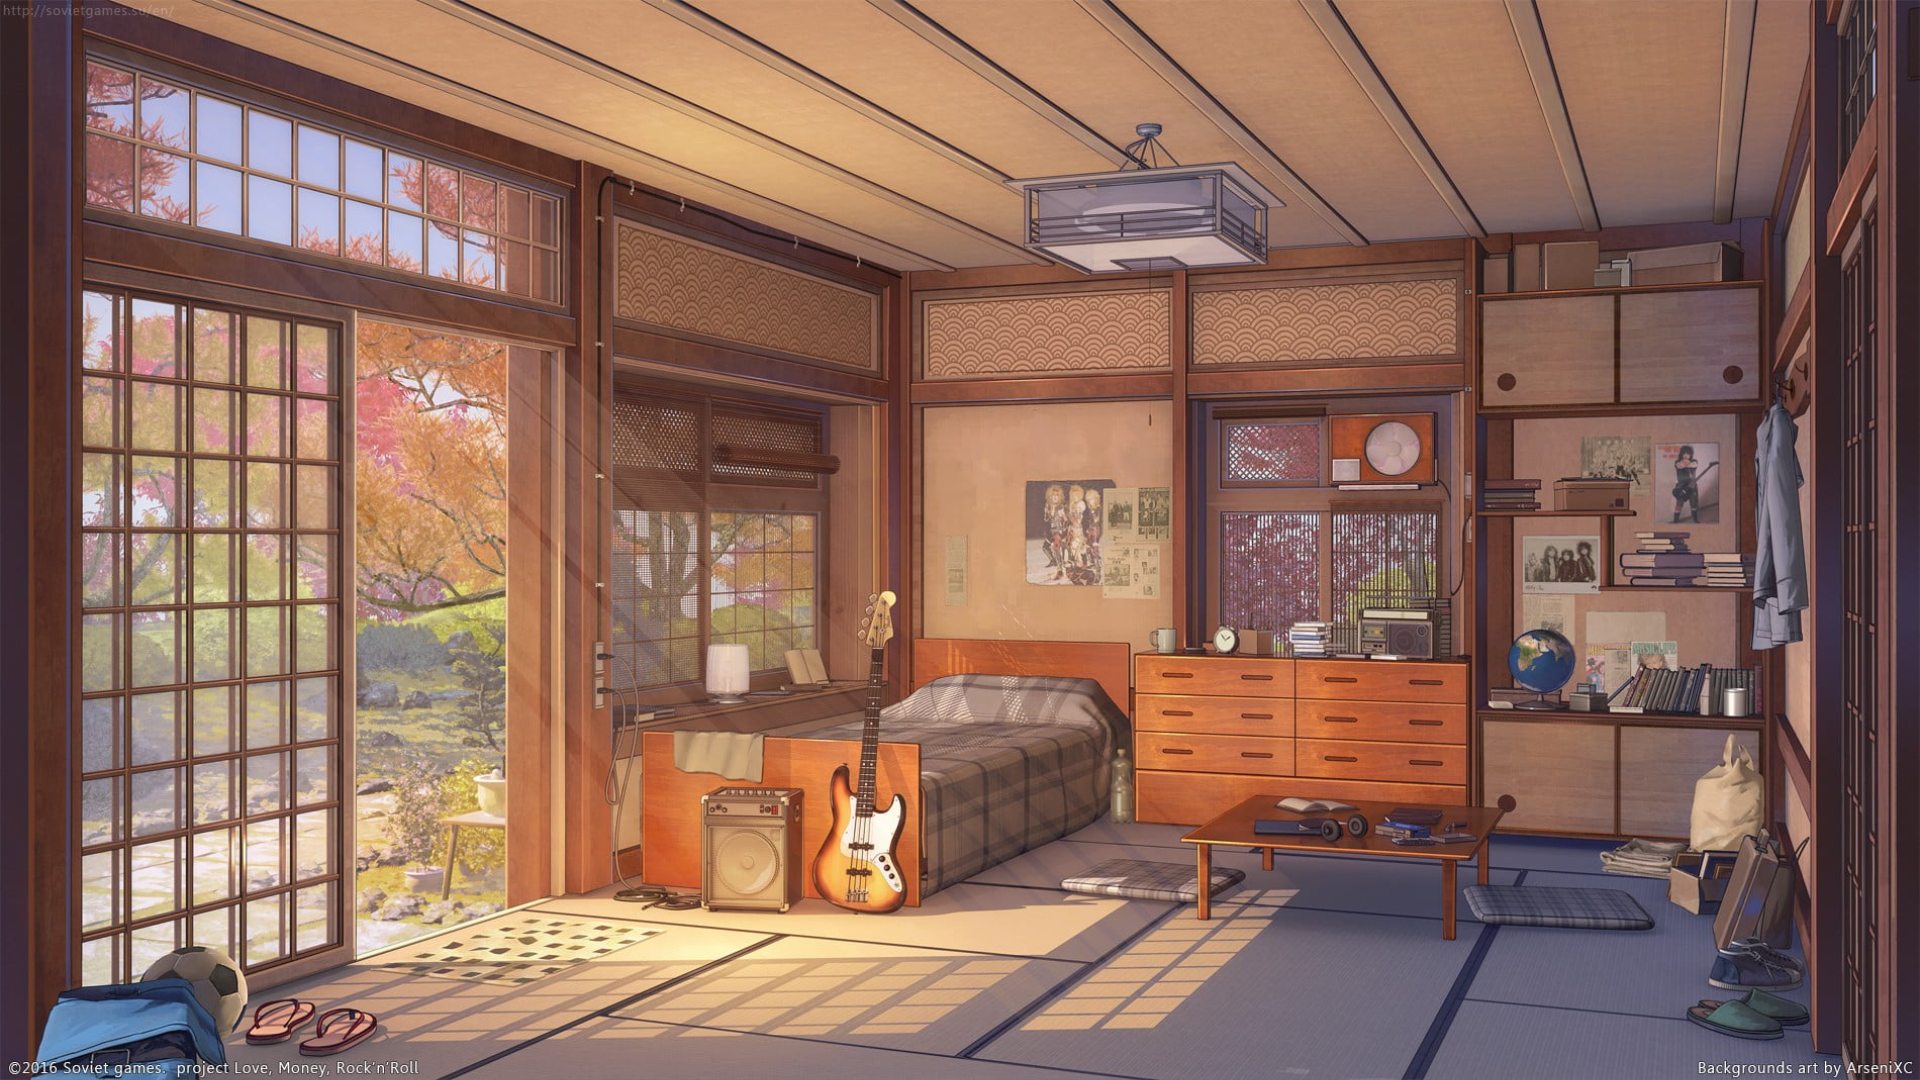
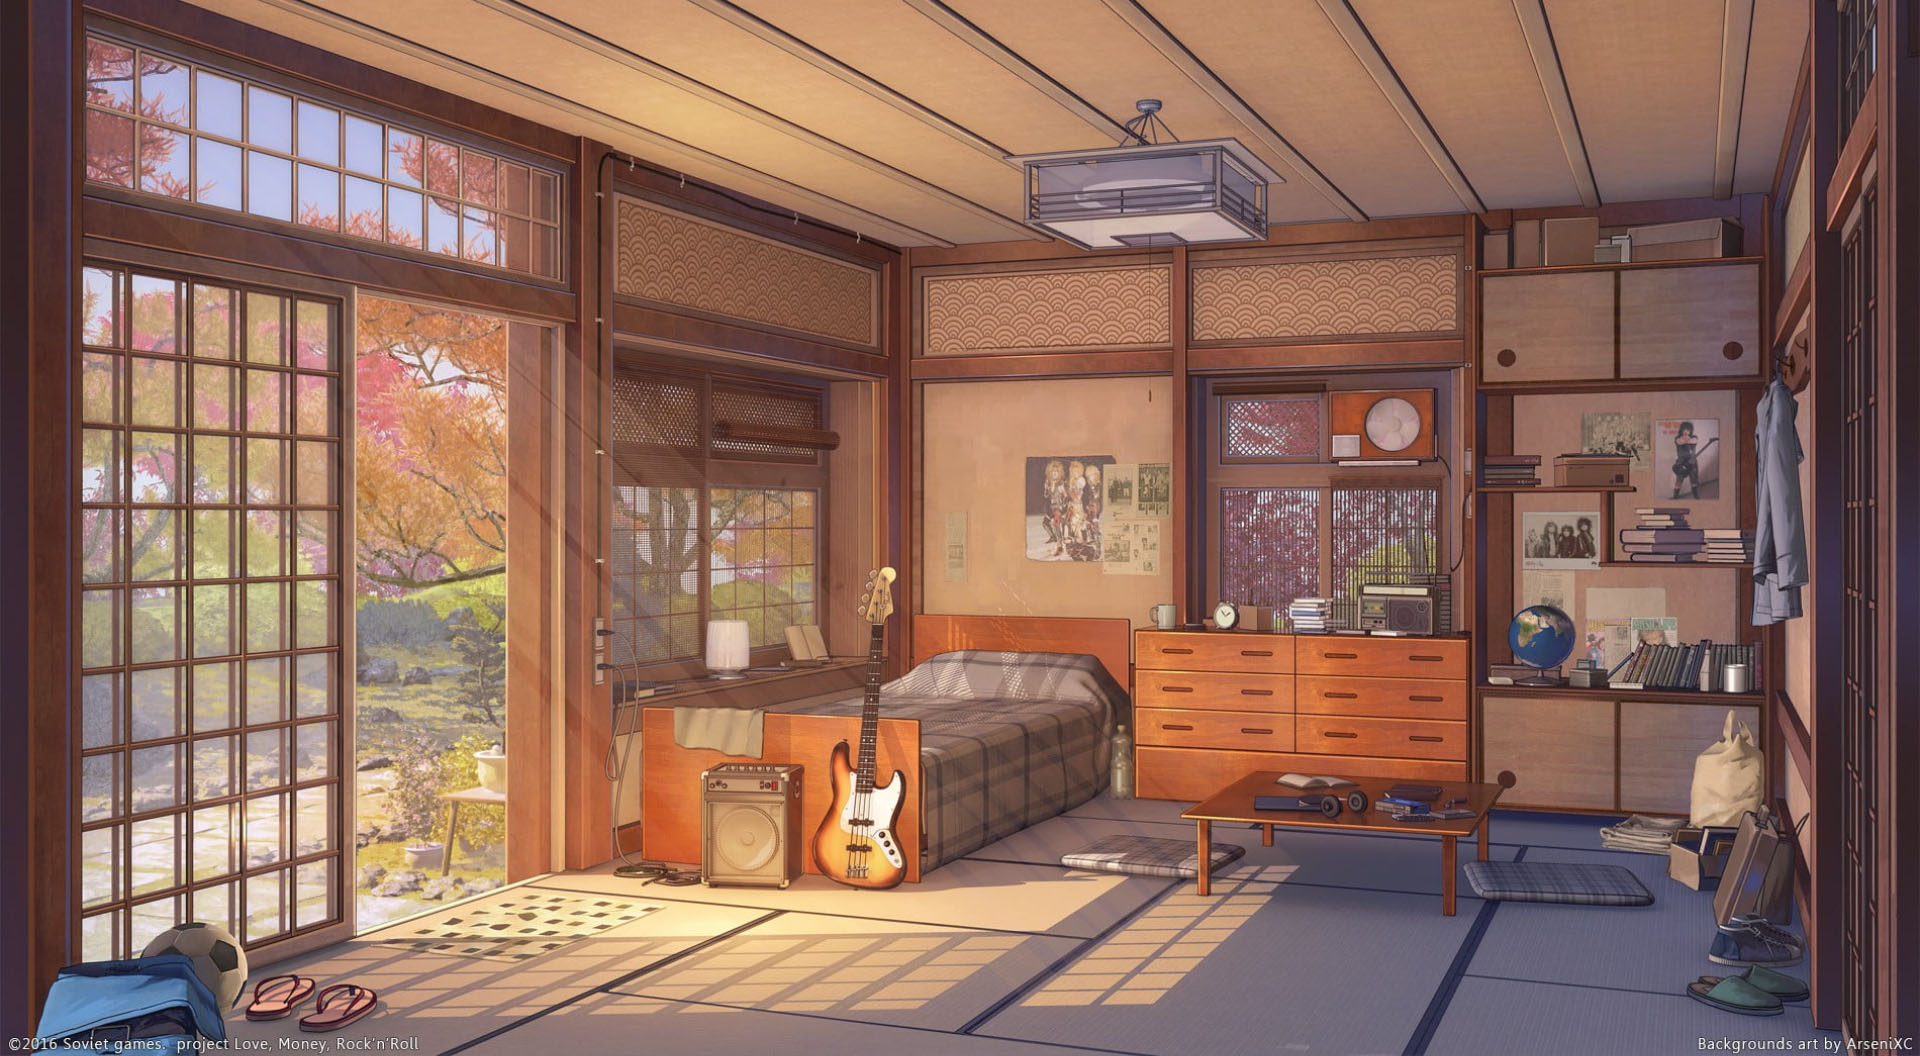
add bgm and profil image

Changed region(s): [[0.0312, 0.0, 1.0, 0.9688], [0.6875, 0.0, 0.75, 0.1562], [0.0312, 0.9688, 0.0625, 1.0]]

diff --git a/src/Histoire/Chapitre1/ACT0.jsx b/src/Histoire/Chapitre1/ACT0.jsx
@@ -2,8 +2,10 @@ import React, { useState, useEffect } from "react";
 
 import "../../css/Chapitre1css/ACT0.css";
 import Dialogue from "../../components/Dialogue";
+// Assets
 import Alarme from "../../Assets/Sons/alarm_clock.mp3";
 import Bgm_Chambre_Suzy from '../../Assets/Musiques/Golden_Eye.mp3';
+import Bg_Chambre_Suzy from '../../Assets/Fonds/bg_chambre_suzy.jpg'
 
 const ACT0 = () => {
   const dialogues = [
@@ -22,20 +24,24 @@ const ACT0 = () => {
   const [currentIndex, setCurrentIndex] = useState(0);
   const [isPlaying, setIsPlaying] = useState(false);
   const [isBgmPlaying, setIsBgmPlaying] = useState(false);
-
-  const bgmVolume = 0.1
+  const [isBg, setIsBg] = useState(false);
+  const [isProfil, setIsProfil] = useState(false);
 
   const handleClick = () => {
     if (currentIndex < dialogues.length - 1) {
       setCurrentIndex(currentIndex + 1);
       if (currentIndex === 5) {
         setIsPlaying(false); // Arrêter le son avant d'afficher le troisième dialogue
+        setIsBg(true); // Faire apparaitre le background de la chambre
+        setIsProfil(true); // Faire apparaitre le profil
       }
       if (currentIndex === 2) {
         setIsPlaying(true); // Démarrer le son avant d'afficher le troisième dialogue
       }
     } else {
       setIsPlaying(false);
+      setIsBg(false)
+      setIsProfil(false)
     }
   };
 
@@ -55,7 +61,13 @@ const ACT0 = () => {
         <audio src={Alarme} autoPlay loop />
       )}
       {isBgmPlaying && (
-        <audio src={Bgm_Chambre_Suzy} autoPlay loop onVolumeChange={bgmVolume}/>)}
+        <audio src={Bgm_Chambre_Suzy} autoPlay loop />)}
+      {isBg && (
+        <div className="Bg_Chambre"></div>
+      )}
+      {isProfil && (
+        <div className="Suzy_Pyjama_Neutre"></div>
+      )}
     </div>
   );
 };

diff --git a/src/components/Dialogue.jsx b/src/components/Dialogue.jsx
@@ -1,17 +1,16 @@
 import React from "react";
 import '../css/Components/Dialogue.css'
 
-export default function Dialogue({ nom, onClick, children, profil, className }) {
+export default function Dialogue({ nom, onClick, children, className }) {
   return (
     <div className={`Bottom-container ${className}`} onClick={onClick}>
-      <img src={profil} className="Profil" alt="Profile"></img>
       <div className="CadreDialogue" onClick={onClick}>
         <h4 className="Nom">{nom}</h4>
         <p className="Dialogue">{children}</p>
         <div className="indicateur">
           <svg xmlns="http://www.w3.org/2000/svg" viewBox="0 0 384 512">
             <path
-              fill="#000000"
+              fill="#c00000"
               d="M384 192c0 87.4-117 243-168.3 307.2c-12.3 15.3-35.1 15.3-47.4 0C117 435 0 279.4 0 192C0 86 86 0 192 0S384 86 384 192z"
             />
           </svg>

diff --git a/src/css/Chapitre1css/ACT0.css b/src/css/Chapitre1css/ACT0.css
@@ -12,9 +12,24 @@
     height: 100%;
 }
 
-#chapitre1 .dialogue3 {
+
+#chapitre1 .Bg_Chambre {
     background-image: url('src/Assets/Fonds/bg_chambre_suzy.jpg');
     height: 100%;
     transition:opacity 2s;
     -webkit-transition: opacity 2s;  
 }
+
+#chapitre1 .Suzy_Pyjama_Neutre {
+    background-image: url('../../Assets/Profils/Suzy/Pyjama_Neutre.png');
+    width: 615px; 
+    height: 600px; 
+    background-size: contain; /* Ajuste la taille de l'image pour qu'elle tienne entièrement dans l'élément */
+    background-position: center; /* Centre l'image horizontalement et verticalement */
+    background-repeat: no-repeat; /* Empêche la répétition de l'image si elle est plus petite que l'élément */
+    position: fixed;
+    bottom: 200px;
+    right: 0px;
+    margin: 0 50px 50px 90px;
+    z-index: 0;
+  }

diff --git a/src/css/Components/Dialogue.css b/src/css/Components/Dialogue.css
@@ -1,25 +1,12 @@
 .Bottom-container .CadreDialogue {
     height: 250px;
-    width: 75%;
+    width: 99.5%;
     border: 1px solid white;
     position: fixed;
     bottom: 0px;
-    right: 0px;
-    margin: 0 50px 50px 90px;
     background-color: white;
     border: 5px solid var(--dialogue_border);
-}
-
-.Bottom-container .Profil {
-    height: 250px;
-    width: 250px;
-    border: 1px solid white;
-    position: fixed;
-    bottom: 0px;
-    left: 0px;
-    margin: 0 50px 50px 90px;
-    background-color: white;
-    border: 5px solid var(--dialogue_border);
+    z-index: 1;
 }
 
 .Bottom-container .Nom {

diff --git a/src/css/0.Global/index.css b/src/css/0.Global/index.css
@@ -12,5 +12,5 @@ p {
 }
 
 :root {
-  --dialogue_border : rgb(119, 184, 228);
+  --dialogue_border : #c00000;
 }
